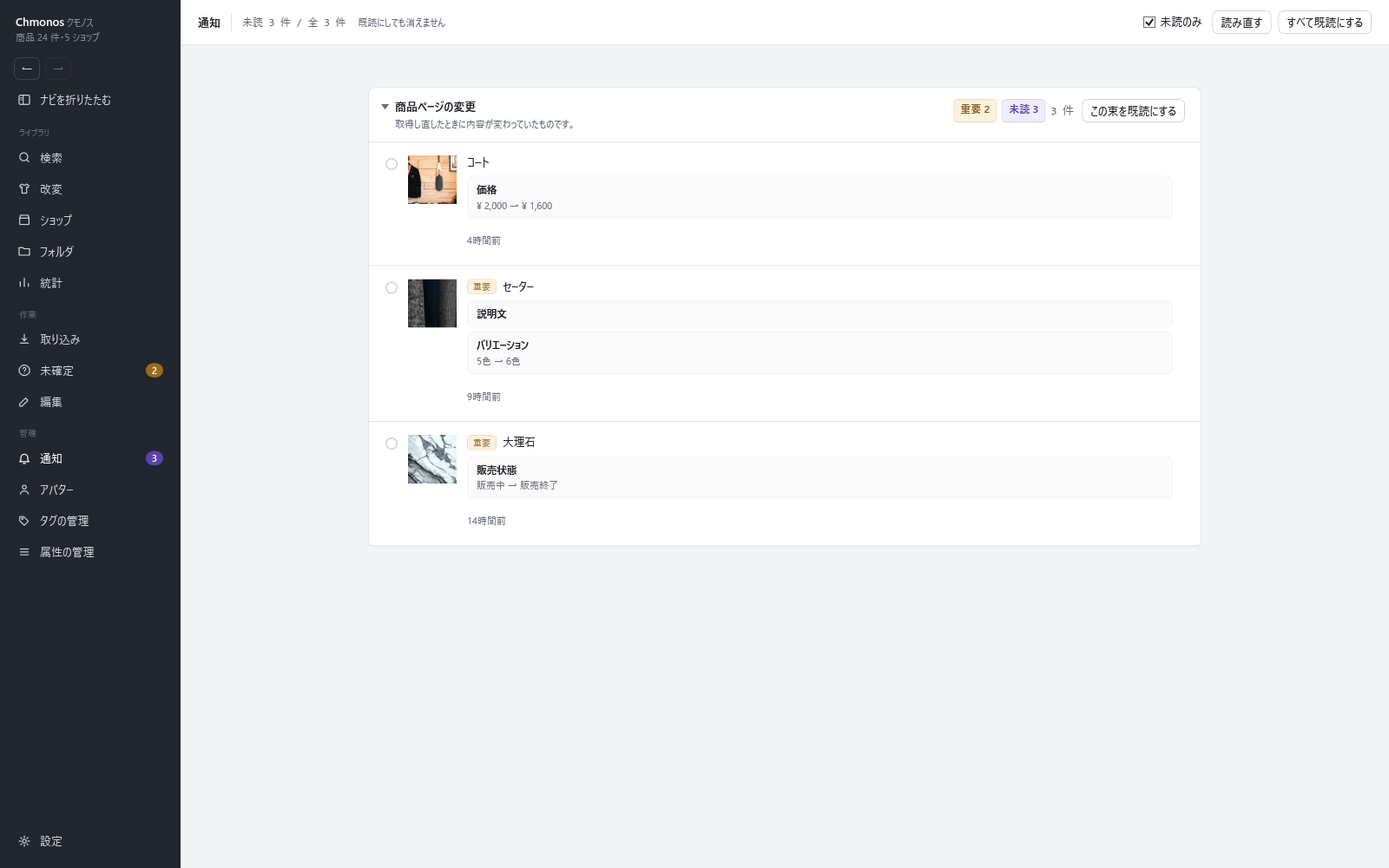
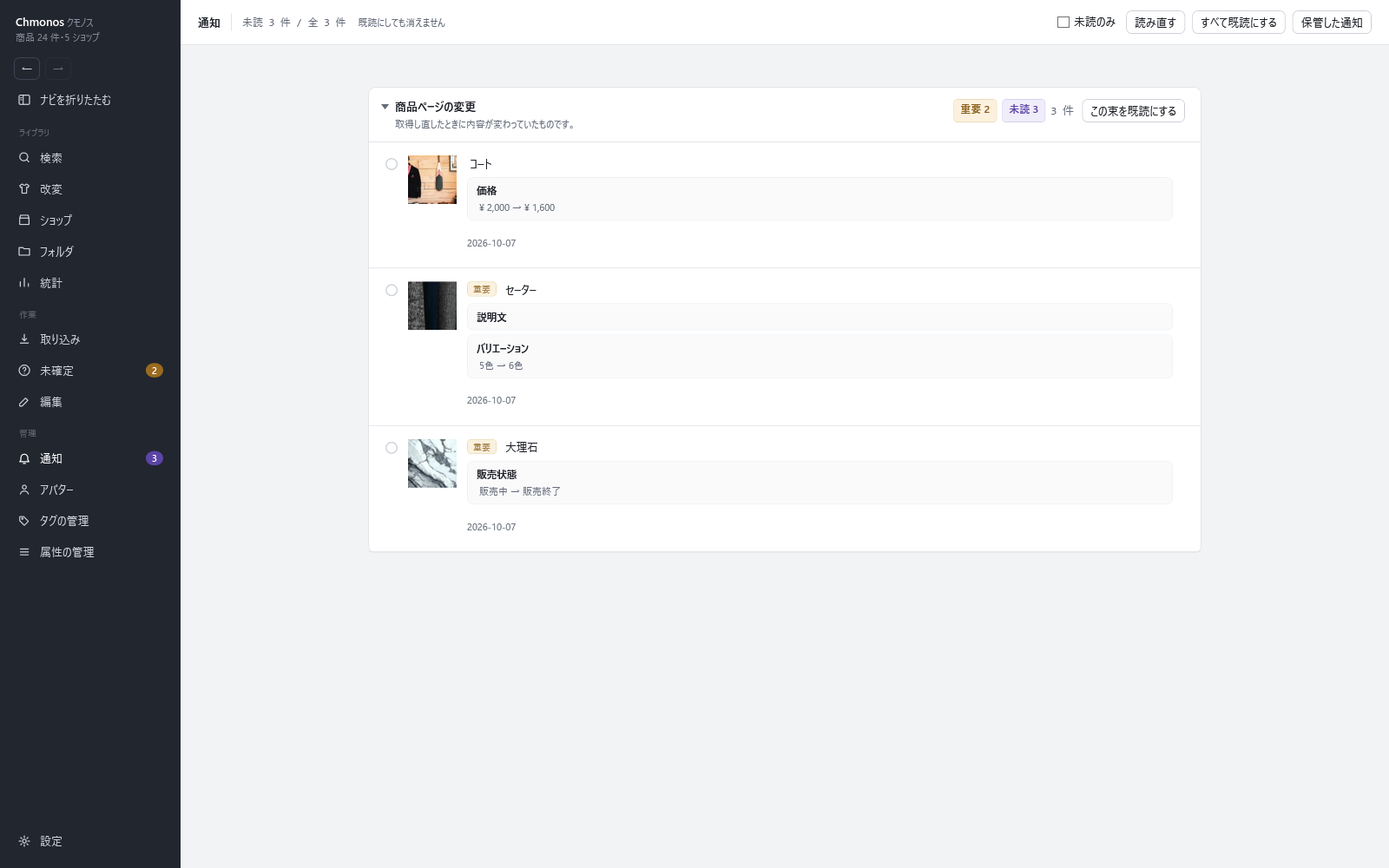
保管した通知の見方を、戻るで今の通知へ戻れるようにし、流していないのに続きを読み進めないようにする
決まりは「戻るで今の通知へ」なのに、同じ画面の中で差し替えていたので履歴に積まれず、
Alt+←・マウスの戻るで通知の画面ごと抜けていた。見方を変えるたびに通知の画面を開き直して履歴に積む。
続きを読む知らせは行の中の選べる文字の ScrollViewer からも上がってきて、行が作られるたびに読み進め、
落ち着くまで止まらなかった（撮影台で、絞りを外すと100件で止まらないことを確かめた）。一覧そのものの知らせだけを見る。
ボタンが1つ増えたので、マニュアルの通知の絵を描き直した。メモリの数は管理ヒープを 32MB に抑えても通ることを測って書いた。

diff --git a/Chmonos.App.Tests/InboxArchiveViewTests.cs b/Chmonos.App.Tests/InboxArchiveViewTests.cs
@@ -28,9 +28,10 @@ public sealed class InboxArchiveViewTests
     private static async Task<(InboxViewModel Inbox, InboxArchiveViewModel Archive)> OpenArchiveAsync(TestApp app)
     {
         var main = await app.StartAsync();
-        var inbox = new InboxViewModel(app.Services, main);
+        main.ShowInbox();
         await app.SettleAsync();
-        inbox.ShowArchiveCommand.Execute(null);
+        ((InboxViewModel)main.CurrentViewModel!).ShowArchiveCommand.Execute(null);
+        var inbox = Assert.IsType<InboxViewModel>(main.CurrentViewModel);
         var archive = inbox.Archive!;
         await archive.Pending;
         return (inbox, archive);
@@ -176,23 +177,35 @@ public sealed class InboxArchiveViewTests
         Assert.Equal("設定の「通知の保管に使う容量」を0より大きくすると、古い通知をここに保管します。", archive.EmptyNote);
     });
 
+    /// <summary>「戻る」（Alt+←・マウスの戻る）で今の通知へ戻る（ユーザ案 2026-11-10）。「← 通知に戻る」とナビの「通知」でも今の通知が開く。</summary>
     [Fact]
-    public Task 通知に戻ると今の通知の見方に戻り_ナビの通知でも戻る() => TestApp.Run(async app =>
+    public Task 戻るで今の通知へ戻り_通知に戻るとナビの通知でも今の通知が開く() => TestApp.Run(async app =>
     {
         await app.Store.NotificationArchive.AppendAsync([Record("old", At(10, 1))]);
         var main = await app.StartAsync();
         main.ShowInbox();
         var inbox = Assert.IsType<InboxViewModel>(main.CurrentViewModel);
-
-        inbox.ShowArchiveCommand.Execute(null);
-        Assert.True(inbox.IsArchiveMode);
-        inbox.LeaveArchiveCommand.Execute(null);
         Assert.False(inbox.IsArchiveMode);
 
         inbox.ShowArchiveCommand.Execute(null);
+        var archive = Assert.IsType<InboxViewModel>(main.CurrentViewModel);
+        Assert.True(archive.IsArchiveMode);
+        Assert.Equal("← 通知に戻る", main.BackButtonText);
+        main.GoBack();
+        Assert.False(Assert.IsType<InboxViewModel>(main.CurrentViewModel).IsArchiveMode);
+
+        ((InboxViewModel)main.CurrentViewModel!).ShowArchiveCommand.Execute(null);
+        ((InboxViewModel)main.CurrentViewModel!).LeaveArchiveCommand.Execute(null);
+        Assert.False(Assert.IsType<InboxViewModel>(main.CurrentViewModel).IsArchiveMode);
+
+        ((InboxViewModel)main.CurrentViewModel!).ShowArchiveCommand.Execute(null);
         main.ShowInboxCommand.Execute(null);
-        Assert.Same(inbox, main.CurrentViewModel);
-        Assert.False(inbox.IsArchiveMode);
+        Assert.False(Assert.IsType<InboxViewModel>(main.CurrentViewModel).IsArchiveMode);
+
+        // 今の通知でナビの「通知」を押しても開き直さない
+        var current = main.CurrentViewModel;
+        main.ShowInboxCommand.Execute(null);
+        Assert.Same(current, main.CurrentViewModel);
     });
 
     /// <summary>保管した通知から商品ページを開いて戻ると、保管した通知の同じ月と絞りに戻る（今の通知へ落ちない）。</summary>
@@ -202,12 +215,11 @@ public sealed class InboxArchiveViewTests
         await app.AddItemAsync(Make.Item("9900601", "作り物の衣装"));
         await app.Store.NotificationArchive.AppendAsync([Record("oct", At(10, 1))]);
         await app.Store.NotificationArchive.AppendAsync([Record("sep", At(9, 1))]);
-        var main = await app.StartAsync();
-        main.ShowInbox();
+        var (_, opened) = await OpenArchiveAsync(app);
+        var main = app.Main;
         var inbox = Assert.IsType<InboxViewModel>(main.CurrentViewModel);
-        inbox.ShowArchiveCommand.Execute(null);
-        await inbox.Archive!.Pending;
-        inbox.Archive.SelectedMonth = inbox.Archive.Months[1];
+        Assert.Same(opened, inbox.Archive);
+        inbox.Archive!.SelectedMonth = inbox.Archive.Months[1];
         inbox.Archive.NameFilter = "衣装";
         await inbox.Archive.Pending;
 

diff --git a/tools/ViewShot/Scenes.Inbox.cs b/tools/ViewShot/Scenes.Inbox.cs
@@ -385,6 +385,7 @@ internal static partial class Scenes
 
             var inbox = context.Screen<InboxViewModel>();
             inbox.ShowArchiveCommand.Execute(null);
+            inbox = context.Screen<InboxViewModel>();
             await SceneContext.UntilAsync(() => inbox.Archive?.Lines.OfType<InboxRowLine>().Count() == 3, "保管した通知の行が3つ並ぶ");
             await context.SettleAsync();
             return new Shot(root);
@@ -400,8 +401,60 @@ internal static partial class Scenes
 
             var inbox = context.Screen<InboxViewModel>();
             inbox.ShowArchiveCommand.Execute(null);
+            inbox = context.Screen<InboxViewModel>();
             await SceneContext.UntilAsync(() => inbox.Archive?.IsEmpty == true && inbox.Archive.EmptyTitle == "保管した通知はありません", "空の表示が出る");
             await context.SettleAsync();
+            return new Shot(root);
+        }),
+
+        // 流して続きを読む配線を、実際の一覧で確かめる（2026-11-11）：落ち着いた後は100件のまま（行の中の部品のスクロールの知らせで読み進めない）、
+        // 終わりまで流して初めて続きの100件を読む。数が合わなければ撮らずに止まる
+        new Scene("inbox-archive-scroll", "通知：保管した通知250件を終わりまで流し、続きの100件を読んだ所", async context =>
+        {
+            var day = new DateTimeOffset(2026, 10, 20, 21, 0, 0, TimeSpan.FromHours(9));
+            await context.Seed.NotificationArchive.AppendAsync(
+                Enumerable.Range(0, 250).Select(i => new NotificationRecord
+                {
+                    Id = $"archive-{i:D3}",
+                    Kind = NotificationKind.ItemUpdated,
+                    Title = $"作り物の衣装 {i:D3}",
+                    Detail = "価格：500 → 800",
+                    CreatedAt = day.AddMinutes(-i),
+                    IsRead = true,
+                }).ToList());
+
+            var main = await context.StartAsync();
+            main.ShowInboxCommand.Execute(null);
+            var root = context.MainWindow();
+            await context.PresentAsync(root);
+
+            context.Screen<InboxViewModel>().ShowArchiveCommand.Execute(null);
+            var archive = context.Screen<InboxViewModel>().Archive!;
+            await SceneContext.UntilAsync(() => archive.Rows.Count == 100, "最初の100件が並ぶ");
+            await context.SettleAsync();
+            await context.PresentAsync(root);
+            await context.SettleAsync();
+            if (archive.Rows.Count != 100)
+            {
+                throw new InvalidOperationException($"流していないのに続きを読んだ（{archive.Rows.Count} 件）");
+            }
+
+            var view = Look.View<Chmonos.App.Views.InboxView>(root) ?? throw new InvalidOperationException("通知の画面が見つからない");
+            var list = view is not null
+                ? Look.Named<Chmonos.App.Controls.ContentItemsControl>(view, "ArchiveList")
+                : null;
+            var scroll = list?.ScrollHost ?? throw new InvalidOperationException("保管した通知の一覧が見つからない");
+            scroll.ScrollToEnd();
+            await context.PresentAsync(root);
+            // 終わりへ跳ぶと、足した行の高さが見積もりから実際の高さに替わる間も終わりの近くに居るので、もう1回読むことがある（250件なら全部）
+            await SceneContext.UntilAsync(() => archive.Rows.Count >= 200 && !archive.IsLoadingMore, "続きの100件を読む");
+            await context.SettleAsync();
+            await context.PresentAsync(root);
+            if (archive.Rows.Count < 200)
+            {
+                throw new InvalidOperationException($"終わりまで流しても続きを読まない（{archive.Rows.Count} 件）");
+            }
+
             return new Shot(root);
         }),
 

diff --git a/Chmonos.App/ViewModels/InboxViewModel.cs b/Chmonos.App/ViewModels/InboxViewModel.cs
@@ -379,46 +379,34 @@ public sealed class InboxViewModel : ViewModelBase
 
         MarkAllReadCommand = new RelayCommand(() => MarkAllReadAsync().Forget(), () => UnreadCount > 0);
         RefreshCommand = new RelayCommand(() => ReloadAsync().Forget());
-        ShowArchiveCommand = new RelayCommand(() => ShowArchive());
-        LeaveArchiveCommand = new RelayCommand(LeaveArchive);
+        // 見方の切り替えは画面の履歴に積む（ユーザ案 2026-11-10「戻るで今の通知へ」）。Alt+←・マウスの戻るで今の通知へ戻れるように、
+        // 同じ画面の中で差し替えずに、見方を決めた通知の画面を開き直す
+        ShowArchiveCommand = new RelayCommand(main.ShowInboxArchive);
+        LeaveArchiveCommand = new RelayCommand(main.ShowInbox);
 
-        ReloadAsync().Forget();
         if (archive is { } open)
         {
-            ShowArchive(open.Month, open.NameFilter);
+            // 保管した通知の見方では今の通知を並べないので、読み込みと検出は走らせない（今の通知へ戻るときに開き直す）
+            Archive = new InboxArchiveViewModel(_services, CreateArchivedRow, open.Month, open.NameFilter);
+            return;
         }
+
+        ReloadAsync().Forget();
     }
 
     /// <summary>
-    /// 保管した通知の見方（ユーザ案 2026-11-10）。null なら今の通知。同じ画面の中の切り替えで、別の画面にはしない
-    /// （ナビの「通知」のまま。アバターの管理の変換の見方と同じ形）。今の通知の一覧は持ったままなので、戻ると読み直さずに元の所が出る
+    /// 保管した通知の見方（ユーザ案 2026-11-10）。null なら今の通知。ナビは「通知」のままで、見た目は同じ画面の中の切り替え。
+    /// 見方を変えるときは通知の画面を開き直して履歴に積む（<see cref="MainViewModel.ShowInboxArchive"/>）
     /// </summary>
-    public InboxArchiveViewModel? Archive
-    {
-        get => _archive;
-        private set
-        {
-            if (SetField(ref _archive, value))
-            {
-                OnPropertyChanged(nameof(IsArchiveMode));
-            }
-        }
-    }
+    public InboxArchiveViewModel? Archive { get; }
 
-    private InboxArchiveViewModel? _archive;
-
-    public bool IsArchiveMode => _archive is not null;
+    public bool IsArchiveMode => Archive is not null;
 
     /// <summary>上の段の「保管した通知」。</summary>
     public RelayCommand ShowArchiveCommand { get; }
 
-    /// <summary>保管した通知の見方の「通知に戻る」。</summary>
+    /// <summary>保管した通知の見方の「← 通知に戻る」。</summary>
     public RelayCommand LeaveArchiveCommand { get; }
-
-    private void ShowArchive(string? month = null, string? nameFilter = null)
-        => Archive = new InboxArchiveViewModel(_services, CreateArchivedRow, month, nameFilter);
-
-    private void LeaveArchive() => Archive = null;
 
     public ObservableCollection<NotificationGroup> Groups { get; } = [];
 

diff --git a/Chmonos.App/ViewModels/MainViewModel.cs b/Chmonos.App/ViewModels/MainViewModel.cs
@@ -97,16 +97,13 @@ public sealed partial class MainViewModel : ViewModelBase
         ShowImportCommand = new RelayCommand(Unless<ImportViewModel>(ShowImport));
         ShowEditCommand = new RelayCommand(() => ShowEditAsync().Forget());
         ShowResolveCommand = new RelayCommand(Unless<ResolveViewModel>(ShowResolve));
-        // 保管した通知を見ているときにナビの「通知」を押したら、今の通知へ戻す（同じ画面の中の切り替えなので、画面は替えない）
+        // 保管した通知を見ているときにナビの「通知」を押したら、今の通知を開く（同じ通知の画面でも見方が違う）
         ShowInboxCommand = new RelayCommand(() =>
         {
-            if (CurrentViewModel is InboxViewModel { IsArchiveMode: true } inbox)
+            if (CurrentViewModel is not InboxViewModel { IsArchiveMode: false })
             {
-                inbox.LeaveArchiveCommand.Execute(null);
-                return;
+                ShowInbox();
             }
-
-            Unless<InboxViewModel>(ShowInbox)();
         });
         ShowShopsCommand = new RelayCommand(Unless<ShopsViewModel>(ShowShops));
         ShowStatsCommand = new RelayCommand(Unless<StatsViewModel>(ShowStats));
@@ -578,6 +575,9 @@ public sealed partial class MainViewModel : ViewModelBase
     public bool HasUnread => UnreadCount > 0;
 
     public void ShowInbox() => CurrentViewModel = new InboxViewModel(_services, this);
+
+    /// <summary>保管した通知の見方で通知の画面を開く（いちばん新しい月）。履歴に積むので、戻るで今の通知へ戻る。</summary>
+    public void ShowInboxArchive() => CurrentViewModel = new InboxViewModel(_services, this, archive: (null, null));
 
     /// <summary>要確認を開き、その商品の「商品の更新」の知らせまで送る（ショップの「更新あり」から）。</summary>
     public void ShowInboxFor(string itemId) => CurrentViewModel = new InboxViewModel(_services, this, itemId);

diff --git a/Chmonos.App/Views/InboxView.xaml.cs b/Chmonos.App/Views/InboxView.xaml.cs
@@ -28,6 +28,13 @@ public partial class InboxView : UserControl
     /// </summary>
     private void OnArchiveScrolled(object sender, ScrollChangedEventArgs e)
     {
+        // 行の中の部品（選べる文字など）の ScrollViewer からも上がってくる。それは位置 0・高さが中身と同じなので、
+        // 受けると行が作られるたびに続きを読み、月を丸ごと読むのと同じになる。一覧そのものの ScrollViewer だけを見る
+        if (e.OriginalSource is not ScrollViewer scroll || !ReferenceEquals(scroll.TemplatedParent, ArchiveList))
+        {
+            return;
+        }
+
         if (_viewModel?.Archive is { HasMore: true, IsLoadingMore: false } archive
             && e.VerticalOffset + e.ViewportHeight * 2 >= e.ExtentHeight)
         {

diff --git a/docs/plan.md b/docs/plan.md
@@ -60,7 +60,7 @@
 22. 済み（2026-11-10）：知らせを捨てずに月ごとの保管庫（`notification-archive/yyyy-MM.jsonl.gz`）へ移す。既定 50MB・上限なし・0 で保管しない・消すのは閉じるときに1回（古い月から）。設定の「通知の保管に使う容量」。決めた事（ユーザ判断 2026-11-10）：圧縮は1件ずつ足す今の形のまま・設定は大きさと月の数だけ・最後に残った保管庫のファイルを消すことになるときは、新しい側の半分を残す。半分で容量に収まらなければ収まるまで半分を重ねる（何回かを先に決めて書き直しは1回・流しながら書く・0 は全部消す。ユーザ判断 2026-11-10。測った数：50MB・約3万9千件の月で、流す作りは 2.4秒・38MB、全部を載せる作りは 1.9秒・507MB。実際の知らせは1件 約1.36KB で 50MB に約3万9千件。実装済み 2026-11-10）・手で負の数を書かれた設定は保管して消さない。「すべての設定を既定に戻す」の確認に「通知の保管に使う容量はそのままにする」のチェック（既定オン）を足した。閉じるときの上限は、門を待つのが3秒・書き直しが60秒（ユーザ判断 2026-11-10。Core の関数で 50MB の月が約3.0秒・80MB 以下）。途中で壊れた月は、壊れたかたまりだけ飛ばして次から読む（ユーザ判断 2026-11-10。実装済み 2026-11-10。50MB での時間とメモリの測り直しはまだ）。壊れたかたまりだけを飛ばして読み続ける（ユーザ判断 2026-11-10。実装済み）。測った数（50MB・約3万9千件の月・2026-11-10）：閉じるときの整理は普通の月 2.7秒・49MB、真ん中を1バイト壊した月 4.8秒・51MB（1件だけ欠ける）。読む口は商品で絞ると 0.7秒・40MB、月を丸ごと読むと 3.3秒・359MB。まだの物：保管庫を読む画面（作るときは商品で絞るか、丸ごと読まない形にする）。閉じるときに実際に呼ばれることは写し `ui` で確かめた（2026-11-10：容量 1MB で古い月 1MB が消え、最後の月 2MB・1,546件は新しい側の 387件・0.39MB が残り、ログにも出た。窓を閉じる操作は 0.2秒）
 23. 済み（2026-11-11）：「条件をクリア」で条件「最近」も何も絞らない形にした（ユーザ判断 2026-11-10「1-A」・案X）。対応アバターと同じ「表示するもの：☑ 記録のある商品（n） ☐ 記録の無い商品（n）」を置き、足したときは上だけ・クリアで両方。帯と期間は記録のある商品だけに効き、下だけにすると記録の無い商品だけを探せる。状態は対応アバターの `showMatched`・`showUnspecified` を借り、前の版の状態は今までどおり読める（`docs/spec/search-recent.md`「表示するもの」・`docs/feedback/done-2026-11.md`）。外から使う API の `recent` はまだ既定（記録のある商品だけ）のまま
 24. 済み（2026-11-11）：保管庫を読む画面（ユーザ案・2026-11-10「その形で良いです」）。通知の画面の上の段の「保管した通知」で同じ画面の中で見方を切り替え、月を選んで新しい順に100件ずつ読み、流すと続きを読む。行は今の通知と同じ型で読むだけ（既読の丸・行のボタン無し・種類を日時の前に）。「商品名で絞る」欄。「← 通知に戻る」・ナビの「通知」で戻る。Core は月を丸ごと読まない口（`IndexAsync` で位置・題・日時だけの目録を作り、`ReadEntriesAsync` でその100件だけを解く）。
-    測った数（作り物の3万9千件・1件ずつのかたまりで 53.6MB・Release）：開いて最初の100件が出るまで 1.7〜1.9秒（目録 1.1〜1.2秒＋100件 0.6秒）、続きの100件 0.5〜0.6秒、商品名で絞っても同じ（照らすのは 0.05秒）。目録が持つのは 9.5MB・管理ヒープの最大 11MB、作業セットの最大 107MB（始める前 26MB。同じ台で商品で絞る今の読み方は 83MB）。書き直した1本の月（42.4MB）は 1.4秒。
-    担当が決めた細かい点（ユーザに見てもらう）：並びは最後に変わった日時（今の通知と同じ）・同じ ID は前の物を残す・照らし方は大文字小文字／かなの種類／全角半角を区別しない・行を押すと商品ページを開く（戻ると同じ月と絞り）・Alt+← は今の通知ではなく前の画面へ（アバターの変換の見方と同じ）・月は選ぶ欄で、月をまたいで続きは読まない。
+    測った数（作り物の3万9千件・1件ずつのかたまりで 53.6MB・Release）：開いて最初の100件が出るまで 1.7〜1.9秒（目録 1.1〜1.2秒＋100件 0.6秒）、続きの100件 0.5〜0.6秒、商品名で絞っても同じ（照らすのは 0.05秒）。目録が持つのは 9.5MB・管理ヒープの最大 11MB、作業セットの最大 107MB（始める前 26MB。同じ台で商品で絞る今の読み方は 83MB。管理ヒープを 32MB に抑えても通り 63〜66MB・2.6〜2.7秒なので、差は一時の割り当ての溜め置き。別の担当のビルドと重なる時間に測った）。書き直した1本の月（42.4MB）は 1.4秒。
+    担当が決めた細かい点（ユーザに見てもらう）：並びは最後に変わった日時（今の通知と同じ）・同じ ID は前の物を残す・照らし方は大文字小文字／かなの種類／全角半角を区別しない・行を押すと商品ページを開く（戻ると同じ月と絞り）・見方を変えるたびに画面の履歴に積む（Alt+←・マウスの戻るで今の通知へ。「← 通知に戻る」も今の通知を開いて積む）・月は選ぶ欄で、月をまたいで続きは読まない。
     後で商品ページの更新通知から、その商品の保管した通知へ飛ぶ入口を足せる
 25. ユーザが画面で見る物（2026-11-10 の直しで、撮る台では見られなかった所）：Unity プロジェクトの付け替え（ユーザ「画面では実際に確認していないので後で一度見ます」。担当が決めた4点：右の欄にもボタン・見つからない時の吹き出しの文・ボタンは見出しの下の段・プロジェクトでないフォルダは行の下で断る）。ほかに、青いボタンに乗せた色（型を写さず色の口で差し替えた）・リストの行に乗せた灰と選んだ行の薄い青（`ListRowBase`）。「×」に乗せた色はまとめ役が実際のマウスで見た

diff --git a/docs/spec/notifications.md b/docs/spec/notifications.md
@@ -100,7 +100,7 @@
   - 目録を作った読み方（速い／正確）で読み直す（読み方が違うと壊れた所で出る行が違い、位置がずれる）。位置の行の ID が目録と違えば出さない（目録の後に閉じるときの整理で書き直された月）
   - 商品名で絞るのは目録の題で照らす（`Matching`。打ち替えるたびに月を流さない）。照らし方はアバター名で絞る欄と同じ（大文字小文字・ひらがなとカタカナ・全角と半角を区別しない）
   - 測った数（2026-11-11・作り物の 3万9千件。1件ずつのかたまりで 53.6MB／書き直した1本で 42.4MB・Release）：目録 1.1〜1.2秒／0.85〜0.93秒、続けて最初の100件 0.6秒／0.5秒（開いて出るまで 1.7〜1.9秒／1.4秒）、続きの100件 0.5〜0.6秒。
-    商品名で絞ると照らすのは 0.05秒で、最初の100件まで同じ時間。目録が持つのは 9.5MB（管理ヒープの最大 11MB）。作業セットの最大は 107MB（始める前 26MB。同じ台で `ReadAsync` を商品で絞ると 83MB）で、差は1行ずつ作る文字の一時の割り当て（1回で約 600MB）
+    商品名で絞ると照らすのは 0.05秒で、最初の100件まで同じ時間。目録が持つのは 9.5MB（管理ヒープの最大 11MB）。作業セットの最大は 107MB（始める前 26MB。同じ台で `ReadAsync` を商品で絞ると 83MB）。管理ヒープを 32MB に抑えて（`DOTNET_GCHeapHardLimit`）も通り、作業セットの最大 63〜66MB・2.6〜2.7秒だったので、差は1行ずつ作る文字の一時の割り当て（2ページで約 600MB）の溜め置き。別の担当のビルドと重なる時間に測った
 - **壊れたかたまり**（ユーザ判断 2026-11-10「壊れたかたまりだけ飛ばす形で」）：月のファイルの途中が壊れていても、壊れたかたまり（gzip のメンバー）だけ飛ばし、次のかたまりから読み続ける。読む口・数える回・書き直しの回が同じ読み方（`NotificationArchiveLines`）。
   前は壊れた所で読み終え、半分に書き直すと後ろ（新しい側）が消えた
   - ふだんは GZipStream 1本で全部を流す（速い読み）。壊れていない月は今までと同じ速さ。読み終えたら、gzip の誤りが出なかったか・最後の行が改行で終わるか・ファイルの終わりまで引いたか・版の行の数とこのアプリが書くメンバーの頭（`1F 8B 08 00` と時刻 0 の8バイト）の数が合うかを見る。
@@ -117,12 +117,12 @@
 
 コードは `App/ViewModels/InboxArchiveViewModel.cs`（`InboxViewModel.Archive`）。読む口は上の「読む口」。
 
-- 上の段の「保管した通知」で、同じ画面の中で見方を切り替える（別の画面にしない。ナビは「通知」のまま。アバターの管理の変換の見方と同じ形）。上の段は「← 通知に戻る」・見出し・件数（左）と、月を選ぶ欄・「商品名で絞る」欄（右）。ナビの「通知」を押しても今の通知へ戻る
-- 開くといちばん新しい月。新しい順に**100件ずつ**読み、流して終わりの画面1枚ぶん手前に来たら続きの100件を読む（一覧の下に「読み込んでいます…」）。月を丸ごとは読まない
+- 上の段の「保管した通知」で見方を切り替える。ナビは「通知」のままで見た目は同じ画面だが、**見方を変えるたびに通知の画面を開き直して画面の履歴に積む**（「戻る」＝Alt+←・マウスの戻る・左上の ← で今の通知へ戻れるように）。上の段は「← 通知に戻る」・見出し・件数（左）と、月を選ぶ欄・「商品名で絞る」欄（右）。「← 通知に戻る」とナビの「通知」は今の通知を開く（履歴に積む）。保管した通知の見方では今の通知を読み込まない
+- 開くといちばん新しい月。新しい順に**100件ずつ**読み、流して終わりの画面1枚ぶん手前に来たら続きの100件を読む（一覧の下に「読み込んでいます…」）。見るのは一覧そのものの ScrollViewer の知らせだけ（行の中の選べる文字からも上がってきて、受けると行が作られるたびに読み進めた。撮影台 `inbox-archive-scroll` で、落ち着いた後は100件のまま・終わりへ流すと続きを読むことを確かめる）。月を丸ごとは読まない
 - 行は今の通知と同じ型（題・札・絵・日時）で**読むだけ**：既読の丸・行のボタンは出さず、読んだ行の薄さも掛けない（全部が既読か解消済みで見分けにならない）。束に分けないので、種類を日時の前に「商品ページの変更・2026-10-17」と言う。行を押すと商品ページを開く（商品が無ければ一覧の上で言うだけで、保管した物は書き換えない）
 - 件数は「n 件」、絞ると「n 件中 m 件」。読めない行・壊れたかたまりがあった月は、一覧の上に「この月の一部を読めなかったため、その分は表示していません。」
 - 空の表示：読み込み中／絞って0件（言葉を変えるか、別の月を選ぶか、絞り込みを消す）／月が1つも無い（「通知に残す件数を超えた古い既読の通知が、ここに月ごとに保管されます。」。容量が 0 なら「設定の「通知の保管に使う容量」を0より大きくすると、古い通知をここに保管します。」）。月が無いときは月と絞りの欄を出さない
-- 商品ページへ移って戻る（Alt+←）と、保管した通知の同じ月と絞りで開き直す（履歴に控えるのは月と絞りの文字だけ。目録は作り直す）。今の通知の一覧は見方を切り替えても持ったまま
+- 商品ページへ移って戻る（Alt+←）と、保管した通知の同じ月と絞りで開き直す（履歴に控えるのは月と絞りの文字だけ。目録は作り直す）
 
 ## 取得できる情報の形式の変化（束に出さない）
 
